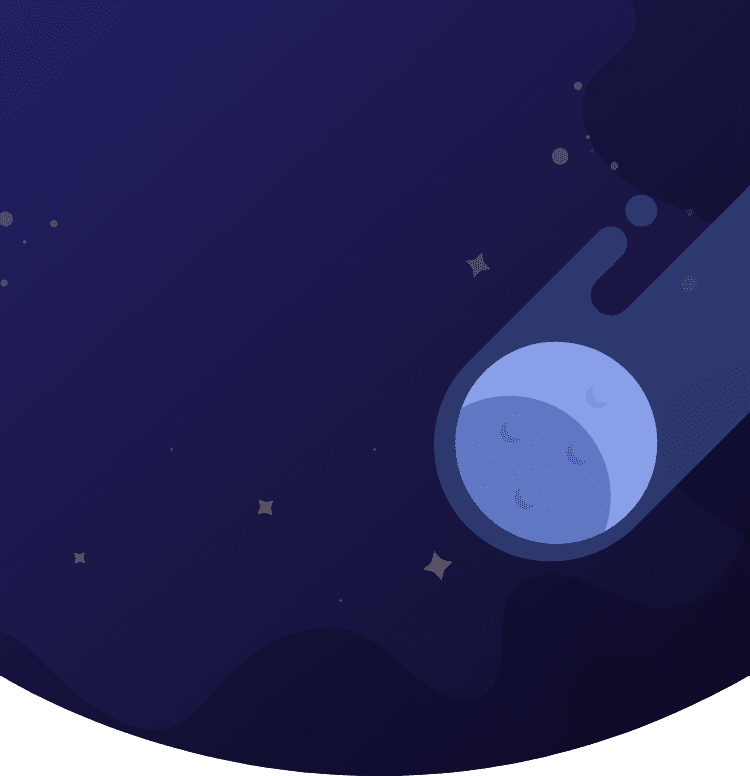
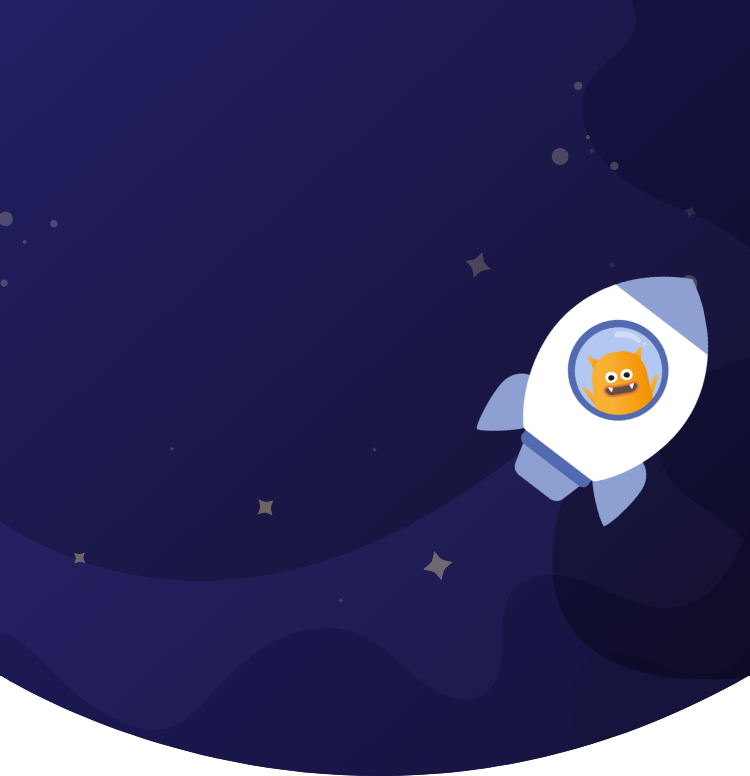
디자인 변경 (사용자 유도)
1. 메인 hero영역 문구 및 이미지 수정
2. 메인 hero영역 '시작하기' 버튼 추가 (클릭 시 이동되는 화면은 고민해봐주시고 알려주세요~)
3. 전체 카테고리, 검색 문구 수정

diff --git a/src/pages/Main.js b/src/pages/Main.js
@@ -17,6 +17,7 @@ import ChallengeList from "../components/ChallengeList";
 import plus from "../image/icon/ic_plus_l@2x.png";
 import bgImg from "../image/main_bg.png";
 import arrow from "../image/icon/ic_arrow_s@2x.png";
+import arrow_w from "../image/icon/arrow_ws@2x.png";
 import feedbackIcon from "../image/icon/ic_feedback_b@2x.png";
 import popIcon from "../image/icon/ic_popup_b@2x.png";
 
@@ -36,12 +37,14 @@ const Main = (props) => {
       <Container className="bg_color" id="main_wrap">
         <Grid padding="0 24px">
           <Banner>
-            <h1>
-              소소하지만 확실한 행복
-              <br />
-              행동 습관 형성 챌린지
-            </h1>
-            <p>나를 변화시키는 습관</p>
+            <h1>작은 것부터 하나씩<br/>나를 바꾸는 습관 챌린지</h1>
+            <p>이루고 싶은 목표가 있으신가요?<br/>토비가 함께 도와드릴게요!</p>
+            <button className="small mt16" onClick={()=>{
+                history.push({                                
+                  pathname: "/category/all",
+                  state: {notfocus: true},                                  
+              })
+              }}>시작하기</button>
           </Banner>
         </Grid>
         <Wrap>
@@ -173,12 +176,24 @@ const Container = styled.div`
 const Banner = styled.div`
   width: 100%;
   height: 235px;
-  padding: 14px 0;
+  padding: 32px 0;
   * {
     color: #fff;
   }
   h1 {
     margin-bottom: 6px;
+  }
+  button {
+    width: 74px;
+    height: 28px;
+    border-radius: 22px;
+    border: solid 1px #a2aab3;
+    background-image: url(${arrow_w});
+    background-size: 16px;
+    background-position: right 4px top 5px;
+    background-color: transparent;
+    color: #fff;
+    padding: 5px 17px 5px 10px;
   }
 `;
 

diff --git a/src/pages/CategoryTab.js b/src/pages/CategoryTab.js
@@ -3,6 +3,7 @@ import styled from "styled-components";
 import { history } from "../redux/configureStore";
 import { Grid, Button } from "../elements/index";
 import { useSelector, useDispatch } from "react-redux";
+import {useLocation} from "react-router";
 import ChallengeCard from "../components/ChallengeCard";
 import SearchHeader from "../components/SearchHeader";
 import { actionCreators as challengeAction } from "../redux/modules/challenge";
@@ -33,10 +34,14 @@ const CategoryTab = () => {
   const location = useSelector((state) => state.router.location.pathname);
   const tabId = location.split("/")[2];
 
+  //메인에서 시작하기 눌러서 이동했을 경우 추천검색어를 안띄우기 위함
+  const history_location = useLocation();
+  const notfocus = history_location.state.notfocus; 
+
   const [word, setWord] = React.useState("");
   const [search_list, setSearch_list] = React.useState("");
   const [active, setActive] = React.useState(true);
-  const [focus, setFocus] = React.useState(true);
+  const [focus, setFocus] = React.useState(notfocus?false:true);
 
   const challengeInfo = useSelector((state) => state.challenge);
   const categoryList = challengeInfo.categoryList;

diff --git a/src/pages/ChallengeDetail.js b/src/pages/ChallengeDetail.js
@@ -177,7 +177,7 @@ const ChallengeDetail = (props) => {
                             >
                             {imageList.map((el,i)=>{
                                 return(
-                                    <SwiperSlide key={i}><Image shape="rectangle" padding="250px" src={el?el:defaultImg}></Image></SwiperSlide>
+                                    <SwiperSlide key={i}><Image shape="rectangle" padding="250px" src={el?el:empty}></Image></SwiperSlide>
                                 );
                             })}
                         </Swiper>

diff --git a/src/pages/CategoryMain.js b/src/pages/CategoryMain.js
@@ -23,7 +23,7 @@ const CategoryMain = (props) => {
         <MainHeader className="category"/>
         <Grid style={{background:"linear-gradient(133deg, #221F63, #0F0D29)"}} padding="48px 0 64px" height="100vh">
             <Banner>
-                <h1>찾으시는 습관 주제의 행성을<br/>선택하세요.</h1>
+                <h1>이루고 싶은 목표의 주제가<br/>무엇인가요?</h1>
             </Banner>
             <Grid padding="0 20px" height="100%">
                 <CategoryPlanet>
